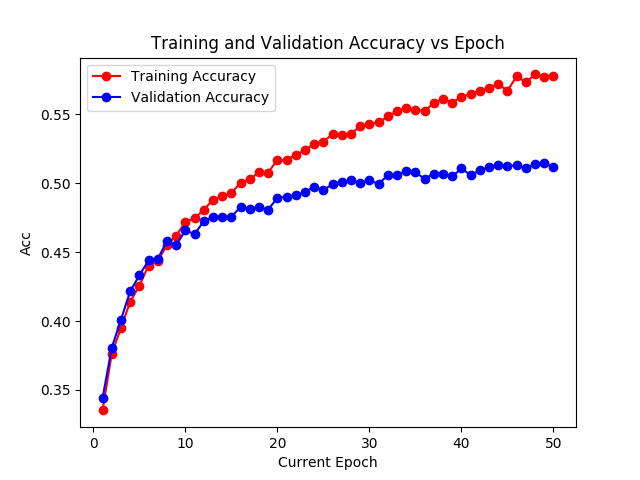
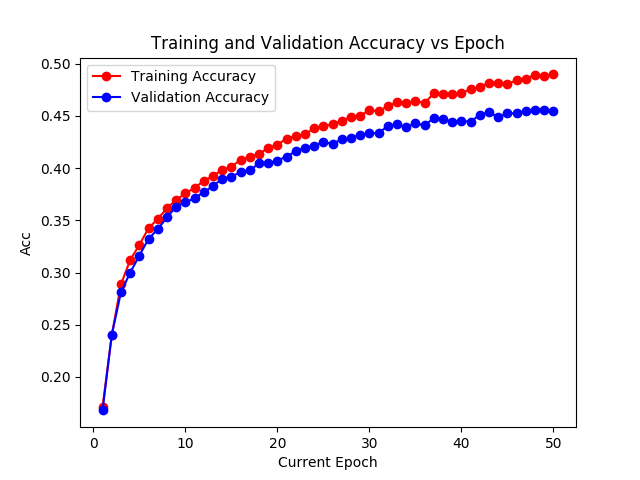
More files

diff --git a/q4.py b/q4.py
@@ -1,0 +1,191 @@
+#!/usr/bin/env python3
+
+import sys
+import numpy as np
+import torch
+import torch.nn as nn
+import torch.nn.functional as fn
+from torchvision import datasets, transforms
+import matplotlib.pyplot as plt
+import matplotlib as mp
+mp.use('Agg') 
+
+model = None
+criterion = nn.NLLLoss()
+optimizer = None
+device = torch.device('cpu')
+batch_size = 100
+batch_set = 40000 / batch_size
+log_limit = batch_size / 10
+epochs = 50
+
+class Net(nn.Module):
+    def __init__(self):
+        super(Net, self).__init__()
+        self.fc1 = nn.Linear(3*32*32, 50)
+        self.fc1_drop = nn.Dropout(0.2)
+        self.fc2 = nn.Linear(50, 50)
+        self.fc2_drop = nn.Dropout(0.2)
+        self.fc3 = nn.Linear(50, 10)
+
+    def forward(self, x):
+        sig = nn.Sigmoid()
+        x = x.view(-1, 3*32*32)
+        x = sig(self.fc1(x))
+        x = self.fc1_drop(x)
+        x = sig(self.fc2(x))
+        x = self.fc2_drop(x)
+        return fn.log_softmax(self.fc3(x), dim=1)
+
+
+def main(lr):
+    global model, optimizer
+
+    # Load in batch data
+    train_data = datasets.CIFAR10('.', 
+                                train=True, 
+                                download=True,  
+                                transform=transforms.ToTensor())
+
+    testing_data = datasets.CIFAR10('.',
+                                train=False,
+                                download=True,
+                                transform=transforms.ToTensor())
+
+    train_loader = torch.utils.data.DataLoader(dataset=train_data,
+                                batch_size=batch_size,
+                                shuffle=True)
+                                
+    testing_loader = torch.utils.data.DataLoader(dataset=testing_data,
+                                batch_size=batch_size,
+                                shuffle=False)
+
+    # Seperate training and validation batches
+    train_batches = []
+    validate_batches = []
+    for i, val in enumerate(train_loader):
+        if i < batch_set:
+            train_batches.append(val)
+        else:
+            validate_batches.append(val)
+    
+    model = Net().to(device)
+    optimizer = torch.optim.SGD(model.parameters(), lr=lr, momentum=0.5)
+
+    # Run training
+    train_loss = []
+    train_acc = []
+    valid_loss = []
+    valid_acc = []
+    test_loss = []
+    test_acc = []
+    for epoch in range(1, epochs + 1):
+        # Training data
+        train(epoch, train_batches, log_interval=log_limit)
+    
+        # Training and validation set validation
+        validate(train_acc, train_loss, train_batches)
+        validate(valid_acc, valid_loss, validate_batches)
+
+    # Testing set
+    test_validate(test_acc, test_loss, testing_loader)
+    print(f'Testing accuracy, loss: {test_acc[0]}, {test_loss[0]}')
+
+    # Plot
+    epoch_label = [i for i in range(1, epochs + 1)]
+    plt.title('Training and Validation Loss vs Epoch')
+    plt.xlabel('Current Epoch')
+    plt.ylabel('Loss')
+    plt.plot(epoch_label, train_loss, marker='o', color='red')
+    plt.plot(epoch_label, valid_loss, marker='o', color='blue')
+    plt.legend(['Training Loss', 'Validation Loss'])
+    plt.savefig(f'q1_loss_{lr}.png')
+    plt.clf()
+
+    plt.title('Training and Validation Accuracy vs Epoch')
+    plt.xlabel('Current Epoch')
+    plt.ylabel('Acc')
+    plt.plot(epoch_label, train_acc, marker='o', color='red')
+    plt.plot(epoch_label, valid_acc, marker='o', color='blue')
+    plt.legend(['Training Accuracy', 'Validation Accuracy'])
+    plt.savefig(f'q1_acc_{lr}.png')
+    plt.clf()
+
+def train(epoch, train_batch, log_interval=50):
+    # Set model to training mode
+    model.train()
+    
+    # Loop over each batch from the training set
+    loss = None
+    for batch_idx, (data, target) in enumerate(train_batch):
+
+        # Zero gradient buffers
+        optimizer.zero_grad() 
+        
+        # Pass data through the network
+        output = model(data)
+
+        # Calculate loss
+        loss = criterion(output, target)
+
+        # Backpropagate
+        loss.backward()
+        
+        # Update weights
+        optimizer.step()
+        
+        if batch_idx % log_interval == 0:
+            print('Train Epoch: {} [{}/{} ({:.0f}%)]\tLoss: {:.6f}'.format(
+                epoch, batch_idx * len(data), len(train_batch) * batch_size,
+                100. * batch_idx / len(train_batch), loss.data.item()))
+
+
+def validate(accuracy_vector, loss_vector, validation_batches):
+    model.eval()
+    val_loss, correct = 0, 0
+    for data, target in validation_batches:
+        output = model(data)
+        val_loss += criterion(output, target).data.item()
+        pred = output.data.max(1)[1] # get the index of the max log-probability
+        correct += pred.eq(target.data).cpu().sum()
+
+    val_loss /= len(validation_batches)
+    loss_vector.append(val_loss)
+
+    accuracy = correct.to(torch.float32) / len(validation_batches * batch_size)
+    accuracy_vector.append(accuracy)
+    
+    print('\nValidation set: Average loss: {:.4f}, Accuracy: {}/{} ({:.0f}%)\n'.format(
+        val_loss, correct, len(validation_batches * batch_size), 100. * accuracy))
+
+
+def test_validate(accuracy_vector, loss_vector, validation_loader):
+    model.eval()
+    val_loss, correct = 0, 0
+    for data, target in validation_loader:
+        output = model(data)
+        val_loss += criterion(output, target).data.item()
+        pred = output.data.max(1)[1] # get the index of the max log-probability
+        correct += pred.eq(target.data).cpu().sum()
+
+    val_loss /= len(validation_loader)
+    loss_vector.append(val_loss)
+
+    accuracy = correct.to(torch.float32) / len(validation_loader.dataset)
+    accuracy_vector.append(accuracy)
+    
+    print('\nValidation set: Average loss: {:.4f}, Accuracy: {}/{} ({:.0f}%)\n'.format(
+        val_loss, correct, len(validation_loader.dataset), 100. * accuracy))
+
+
+if __name__ == "__main__":
+    if len(sys.argv) != 2:
+        print("Invalid arguments")
+        exit(1)
+    else:
+        try:
+            lr = float(sys.argv[1])
+        except:
+            print("lr must be a number")
+
+        main(lr)
